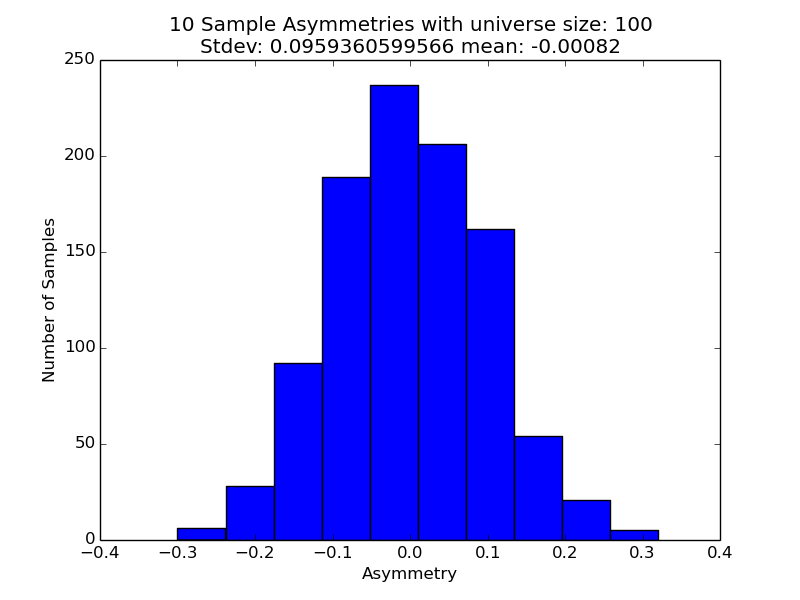
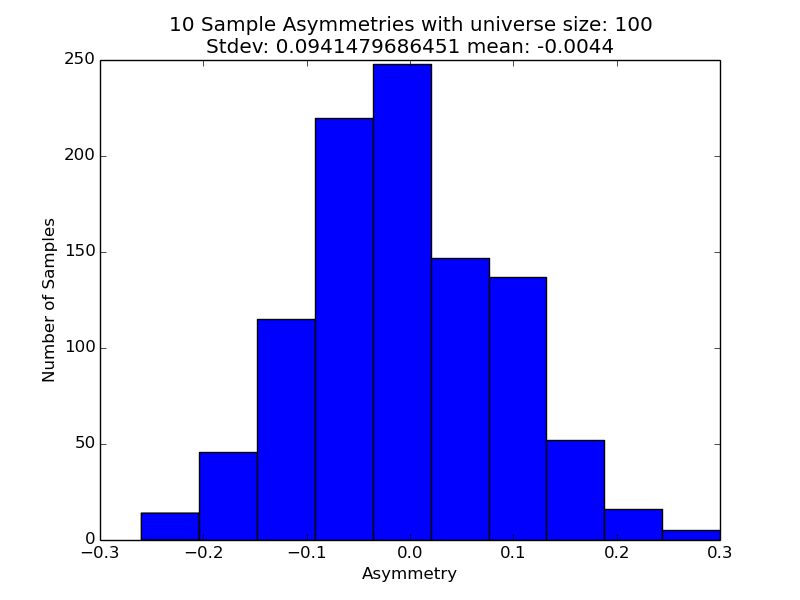
Universe size can be fixed

Changed region(s): [[0.1562, 0.06, 0.9062, 0.93], [0.9062, 0.9, 0.9375, 0.93], [0.125, 0.9, 0.1562, 0.93]]

diff --git a/simulationSampleTaker.py b/simulationSampleTaker.py
@@ -66,7 +66,9 @@ def list_of_symmetries(universe, sample_dim, length):
     return s_list
 
 def main():
-    SAMPLE_DIM = UNI_DIM/10
+    UNI_DIM = SAMPLE_DIM*10
+    if FIXED_UNIVERSE_SIZE:
+        UNI_DIM = 1000
     universe = init_univ(UNI_DIM)
 
     my_list = list_of_symmetries(universe, SAMPLE_DIM, 1000)
@@ -80,11 +82,22 @@ def main():
             + " mean: " + str(np.mean(my_list)))
     plt.xlabel("Asymmetry")
     plt.ylabel("Number of Samples")
-    plt.savefig(str(SAMPLE_DIM) + "_sample.png")
+    if FIXED_UNIVERSE_SIZE:
+        plt.savefig(str(SAMPLE_DIM) + "_sample_fixed.png")
+    else:
+        plt.savefig(str(SAMPLE_DIM) + "_sample.png")
     #plt.show()
 
 #for UNI_DIM in range(40, 8000, 50):
 #    main()
 
-UNI_DIM = int(sys.argv[1])
+SAMPLE_DIM = int(sys.argv[1])
+if len(sys.argv) == 3:
+    FIXED_UNIVERSE_SIZE = True
+else:
+    FIXED_UNIVERSE_SIZE = False
+
+if (FIXED_UNIVERSE_SIZE):
+    print("Fixed universe size at 1000")
+
 main()
